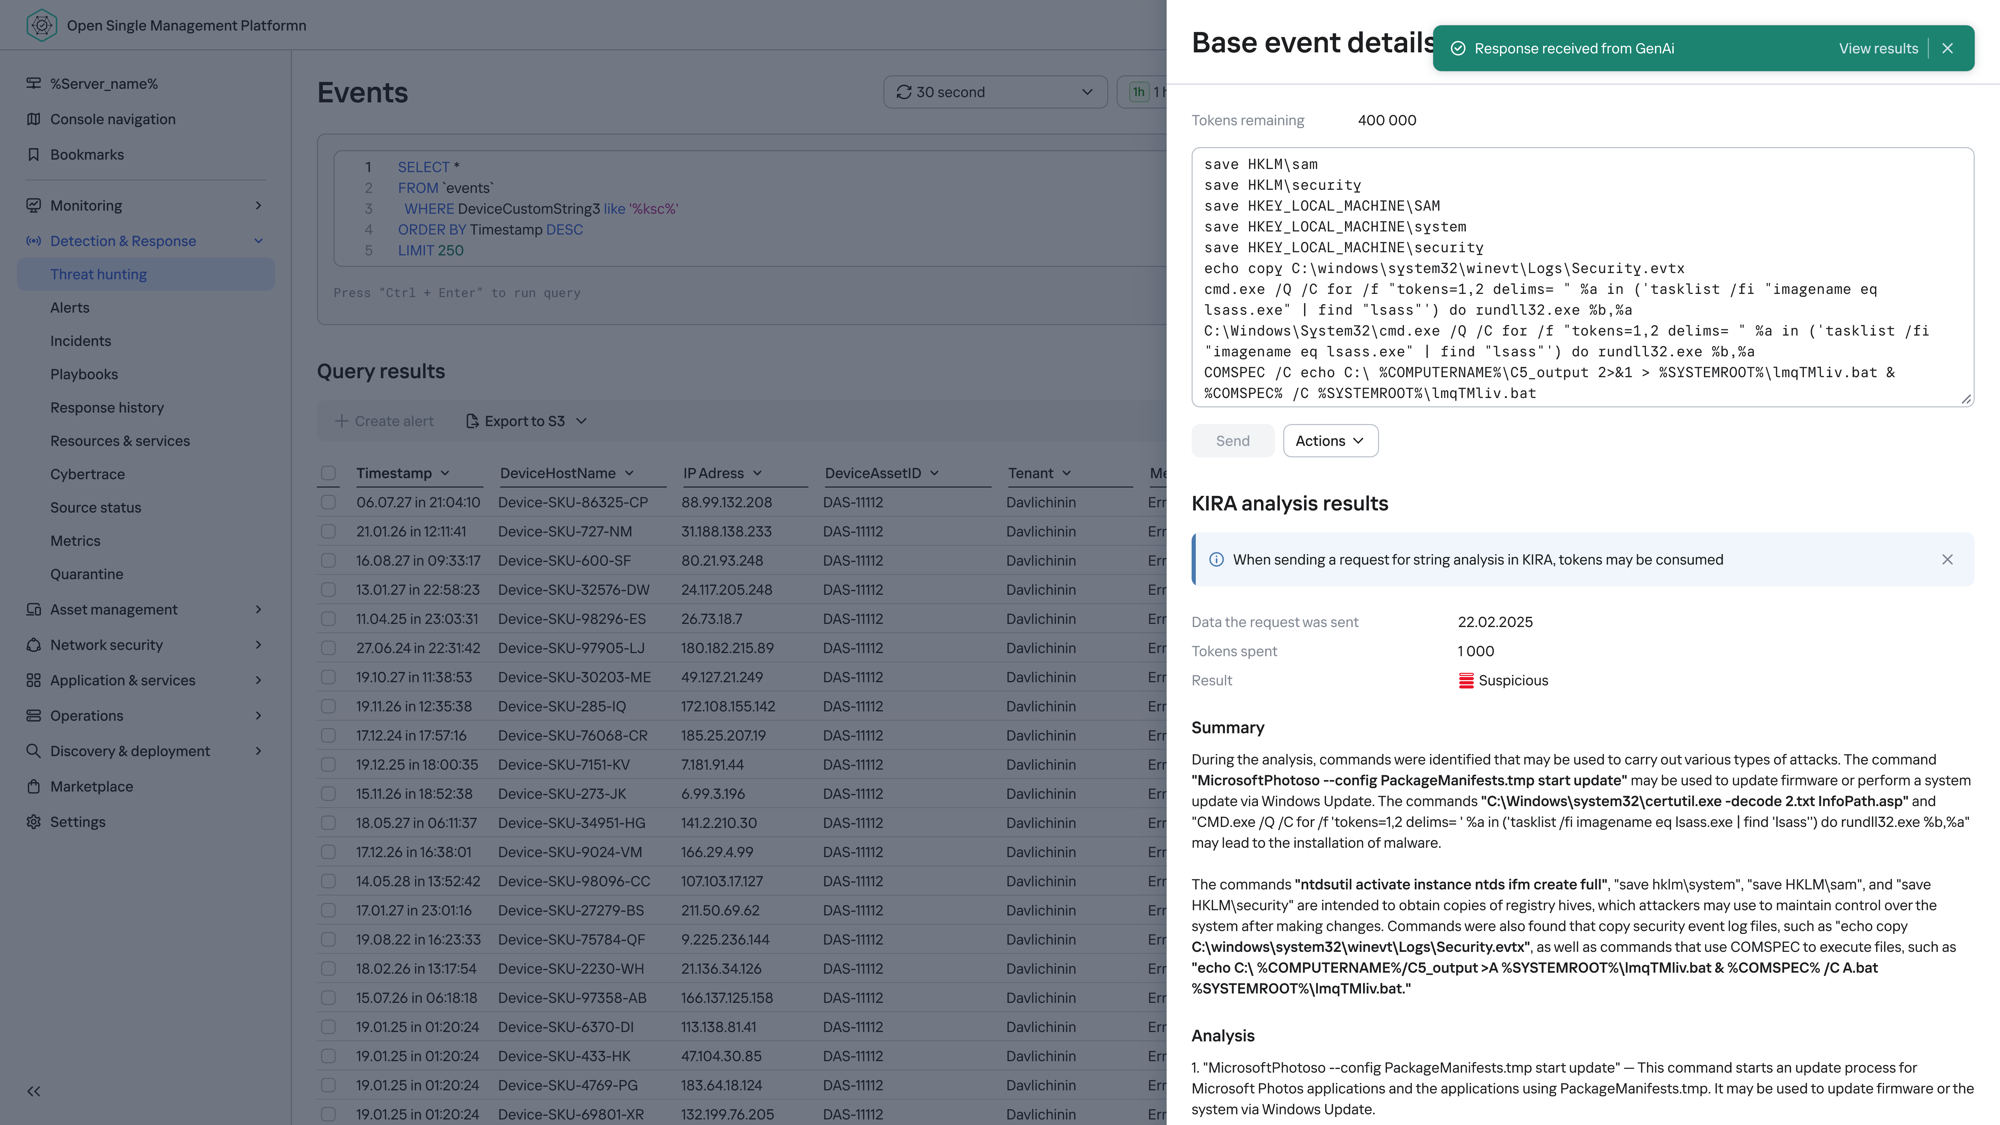
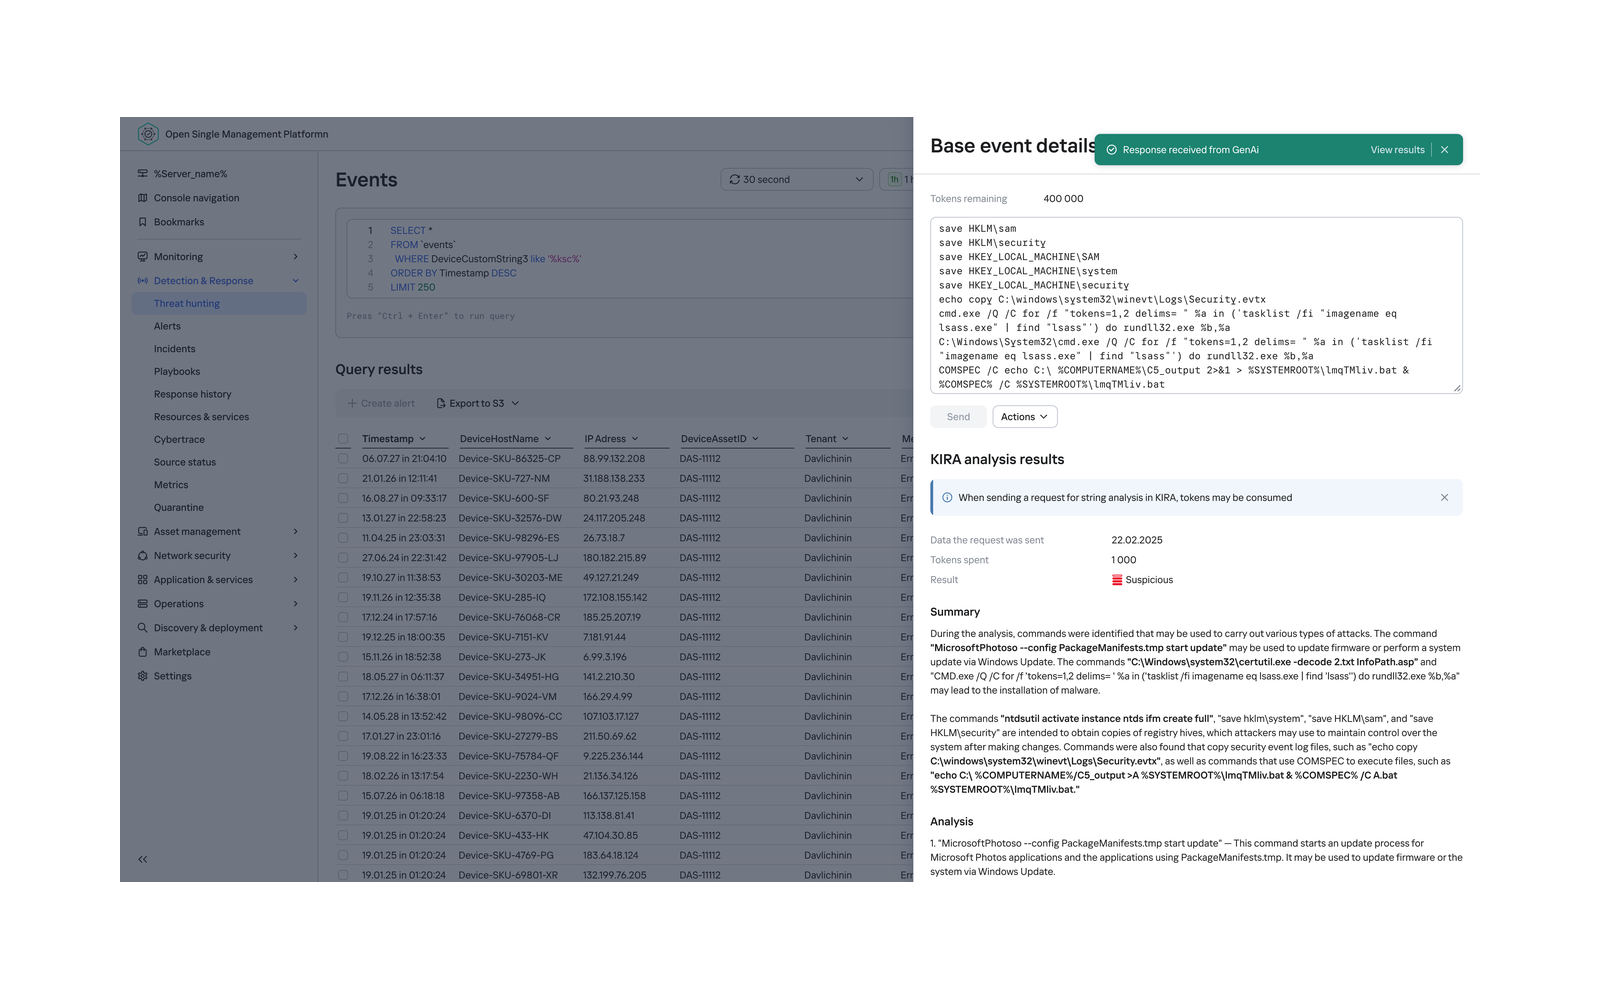
polish: card labels, typography, next-project chain
- Project cards now show the case's own tags instead of the client name;
  the tags are split across client/category so the label renders right
  even for visitors holding a cached script.js
- Asset Management trimmed to three tags; Playbook Test Run metric
  shortened; AI Assistance cover letterboxed so it shows in full
- Grey text is 14px everywhere except the hero paragraph, which stays 16px
- Research setup plaques hug their content and share one 32px size
- Playbook Editor: frame removed from the section 01 image, hero regained
  the user-research sentence
- Next project now cycles through every case instead of the index

diff --git a/cases/playbook-test-run.html b/cases/playbook-test-run.html
@@ -120,7 +120,7 @@
         <span data-lang="en">03. Research setup</span>
         <span data-lang="ru">03. Сетап исследования</span>
       </h2>
-      <div class="case-v2__lead" data-lang-content style="margin-bottom:8px">
+      <div class="case-v2__lead" data-lang-content style="margin-bottom:24px">
         <span data-lang="en">The research team couldn't fit the study into the project timeline, so I took ownership of the entire research cycle myself. I recruited 8 practicing SOC analysts, from Middle to Lead level, including both users familiar with our products and analysts experienced with other security tools. Participants completed tasks in a clickable prototype while thinking aloud.</span>
         <span data-lang="ru">Команда ресёрча не смогла вписать исследование в сроки, поэтому весь цикл я взяла на себя. Я собрала 8 практикующих SOC-аналитиков уровней от Middle до Lead — как знакомых с нашими продуктами, так и работавших со сторонними инструментами. Участники проходили задачи на кликабельном прототипе и рассуждали вслух.</span>
       </div>
@@ -146,7 +146,7 @@
         <span data-lang="en">04. What users understood immediately</span>
         <span data-lang="ru">04. Что пользователи поняли сразу</span>
       </h2>
-      <div class="case-v2__lead" data-lang-content style="margin-bottom:4px">
+      <div class="case-v2__lead" data-lang-content style="margin-bottom:24px">
         <span data-lang="en">The main testing flow had no blocking issues. Analysts could start Test Mode, recognize that the test had started, find error details and Issues, and understand how to inspect failures.</span>
         <span data-lang="ru">В основном сценарии тестирования блокеров не было. Аналитики запускали Test Mode, понимали, что тест начался, находили детали ошибок и Issues и понимали, как разбирать сбои.</span>
       </div>
@@ -174,7 +174,7 @@
         <span data-lang="en">05. Problem 01 — Test Mode meant something different to users</span>
         <span data-lang="ru">05. Проблема 01 — «Test Mode» пользователи поняли иначе</span>
       </h2>
-      <div class="case-v2__lead" data-lang-content style="margin-bottom:8px">
+      <div class="case-v2__lead" data-lang-content style="margin-bottom:24px">
         <span data-lang="en">The issue wasn't simply unclear UI. Many analysts already had their own definition of a “test environment.” In their existing workflows, testing often meant running the real playbook logic against dedicated test or closed alerts. They brought that mental model into our prototype — while our Test Mode worked differently.</span>
         <span data-lang="ru">Дело было не просто в непонятном UI. У многих аналитиков уже было своё понимание «тестового окружения». В их привычных процессах тест часто означал прогон реальной логики плейбука на выделенных тестовых или закрытых алертах. Эту модель они принесли в наш прототип — а наш Test Mode работал иначе.</span>
       </div>
@@ -262,11 +262,11 @@
       <div class="slider" aria-label="Final validated editor">
         <div class="slider__track">
           <div class="slider__slide"><img src="../images/projects/playbook-test-run/08-final-01.png" alt="Final validated editor, view 1" loading="lazy"></div>
+          <div class="slider__slide"><img src="../images/projects/playbook-test-run/08-final-06.png" alt="Final validated editor, view 6" loading="lazy"></div>
           <div class="slider__slide"><img src="../images/projects/playbook-test-run/08-final-02.png" alt="Final validated editor, view 2" loading="lazy"></div>
           <div class="slider__slide"><img src="../images/projects/playbook-test-run/08-final-03.png" alt="Final validated editor, view 3" loading="lazy"></div>
           <div class="slider__slide"><img src="../images/projects/playbook-test-run/08-final-04.png" alt="Final validated editor, view 4" loading="lazy"></div>
           <div class="slider__slide"><img src="../images/projects/playbook-test-run/08-final-05.png" alt="Final validated editor, view 5" loading="lazy"></div>
-          <div class="slider__slide"><img src="../images/projects/playbook-test-run/08-final-06.png" alt="Final validated editor, view 6" loading="lazy"></div>
         </div>
       </div>
     </section>
@@ -277,7 +277,7 @@
         <span data-lang="en">09. What else users asked for</span>
         <span data-lang="ru">09. Что ещё просили пользователи</span>
       </h2>
-      <div class="case-v2__lead" data-lang-content style="margin-bottom:4px">
+      <div class="case-v2__lead" data-lang-content style="margin-bottom:24px">
         <span data-lang="en">The study also uncovered additional product needs. Some were mentioned once, while others repeatedly surfaced across participants.</span>
         <span data-lang="ru">Исследование также раскрыло дополнительные продуктовые потребности. Что-то звучало один раз, а что-то повторялось у разных участников.</span>
       </div>
@@ -311,7 +311,7 @@
         <span data-lang="en">10. From research to a validated flow</span>
         <span data-lang="ru">10. От ресёрча к валидированному флоу</span>
       </h2>
-      <div class="case-v2__lead" data-lang-content style="margin-bottom:8px">
+      <div class="case-v2__lead" data-lang-content style="margin-bottom:24px">
         <span data-lang="en">The study uncovered the main usability gaps in the original concept and helped turn them into concrete design changes. After several iterations, the final prototype supported the core testing scenario, while additional user needs were captured as future product scope.</span>
         <span data-lang="ru">Исследование выявило основные пробелы юзабилити в изначальной концепции и помогло превратить их в конкретные дизайн-изменения. После нескольких итераций финальный прототип поддержал основной сценарий тестирования, а дополнительные потребности были зафиксированы как будущий продуктовый скоуп.</span>
       </div>
@@ -331,7 +331,7 @@
       </div>
     </section>
 
-    <a href="../index.html#projects" class="case__next" data-i18n="case.next">Next project →</a>
+    <a href="geoanalytics.html" class="case__next" data-i18n="case.next">Next project →</a>
   </main>
 
   <footer class="site-footer">

diff --git a/cases/playbook-editor.html b/cases/playbook-editor.html
@@ -47,11 +47,11 @@
     <div class="case-v2__lead" data-lang-content>
       <div data-lang="en">
         <p>Designing a visual tool for automated security workflows. A playbook is a set of instructions that tells a security system how to respond to a potential threat. For example, it can scan a suspicious file and isolate it if a threat is detected. The Playbook Editor is where security analysts build these workflows: define actions, set conditions, and connect steps into a sequence.</p>
-        <p>I redesigned a code-based setup form into a visual editor.</p>
+        <p>I redesigned a code-based setup form into a visual editor. I also initiated and independently conducted user research for its test-run feature, turning findings into improvements to the prototype.</p>
       </div>
       <div data-lang="ru">
         <p>Проектирование визуального инструмента для автоматизированных сценариев безопасности. Плейбук — это набор инструкций, который говорит системе безопасности, как реагировать на потенциальную угрозу. Например, просканировать подозрительный файл и изолировать его, если угроза подтвердилась. В редакторе плейбуков аналитики собирают такие сценарии: задают действия, условия и связывают шаги в последовательность.</p>
-        <p>Я переработала кодовую форму настройки в визуальный редактор.</p>
+        <p>Я переработала кодовую форму настройки в визуальный редактор. Я также инициировала и самостоятельно провела пользовательское исследование его тестового запуска, превратив результаты в улучшения прототипа.</p>
       </div>
     </div>
 
@@ -106,8 +106,8 @@
       </h2>
 
       <div class="subsection">
-        <div class="subsection__images" style="border:0">
-          <img src="../images/projects/playbook-editor/01-old-editor.png" alt="The original code-based playbook editing form">
+        <div class="subsection__images">
+          <img src="../images/projects/playbook-editor/01-old-editor.png" alt="The original code-based playbook editing form" style="border:0">
         </div>
         <div class="subsection__text" data-lang-content>
           <div data-lang="en">
@@ -382,7 +382,7 @@
       </div>
     </section>
 
-    <a href="../index.html#projects" class="case__next" data-i18n="case.next">Next project →</a>
+    <a href="playbook-test-run.html" class="case__next" data-i18n="case.next">Next project →</a>
   </main>
 
   <footer class="site-footer">

diff --git a/styles.css b/styles.css
@@ -921,7 +921,7 @@ h1, h2, h3, h4 { line-height: 1.1; letter-spacing: -0.02em; font-weight: 700; }
 }
 
 .case-v2__lead {
-  font-size: 16px;
+  font-size: 14px;
   color: var(--color-text-muted);
   line-height: 1.55;
   max-width: 900px;
@@ -1762,7 +1762,12 @@ h1, h2, h3, h4 { line-height: 1.1; letter-spacing: -0.02em; font-weight: 700; }
 .compare__badge--good { background: #E7F4EE; color: #1E7A4E; }
 
 /* Stat variants */
-.statrow--bare { gap: 24px; }
+.statrow--bare {
+  display: flex;
+  flex-wrap: wrap;
+  gap: 24px 56px;
+  grid-template-columns: none;
+}
 .statrow--bare .stat { background: none; border: none; padding: 0; }
 .stat__num--text { font-size: clamp(19px, 2.1vw, 26px); }
 
@@ -1878,3 +1883,9 @@ h1, h2, h3, h4 { line-height: 1.1; letter-spacing: -0.02em; font-weight: 700; }
   .flow__arrow { display: none; }
   .flow__step { flex: 1 1 100%; }
 }
+
+/* Hero paragraph keeps the larger size; grey text inside sections stays 14px */
+.case-v2 > .case-v2__lead { font-size: 16px; }
+
+/* Research setup plaques: number and word labels share one size */
+.statrow--bare .stat__num { font-size: 32px; }

diff --git a/cases/asset-management.html b/cases/asset-management.html
@@ -41,8 +41,6 @@
       <span class="tag-pill">Platform Design</span>
       <span class="tag-pill">Cross-team Alignment</span>
       <span class="tag-pill">Enterprise UX</span>
-      <span class="tag-pill">Information Architecture</span>
-      <span class="tag-pill">Product Strategy</span>
     </div>
 
     <h1 class="case-v2__title" data-lang-content>
@@ -413,7 +411,7 @@
       </div>
     </section>
 
-    <a href="../index.html#projects" class="case__next" data-i18n="case.next">Next project →</a>
+    <a href="ai-assistance.html" class="case__next" data-i18n="case.next">Next project →</a>
   </main>
 
   <footer class="site-footer">

diff --git a/script.js b/script.js
@@ -123,7 +123,7 @@
         </div>
         <div class="card__body">
           <div class="card__meta">
-            <span class="mono">${escapeHtml(item.client)} · ${escapeHtml(item.category)}</span>
+            <span class="mono">${[item.client, item.category].filter(Boolean).map(escapeHtml).join(' · ')}</span>
             ${lockHtml}
           </div>
           <h3 class="card__name">${escapeHtml(name)}</h3>

diff --git a/cases/ai-assistance.html b/cases/ai-assistance.html
@@ -235,7 +235,7 @@
       </div>
     </section>
 
-    <a href="../index.html#projects" class="case__next" data-i18n="case.next">Next project →</a>
+    <a href="playbook-editor.html" class="case__next" data-i18n="case.next">Next project →</a>
   </main>
 
   <footer class="site-footer">

diff --git a/cases/management-accounting.html b/cases/management-accounting.html
@@ -124,7 +124,7 @@
       </div>
     </section>
 
-    <a href="geoanalytics.html" class="case__next" data-i18n="case.next">Next project →</a>
+    <a href="asset-management.html" class="case__next" data-i18n="case.next">Next project →</a>
   </main>
 
   <footer class="site-footer">
